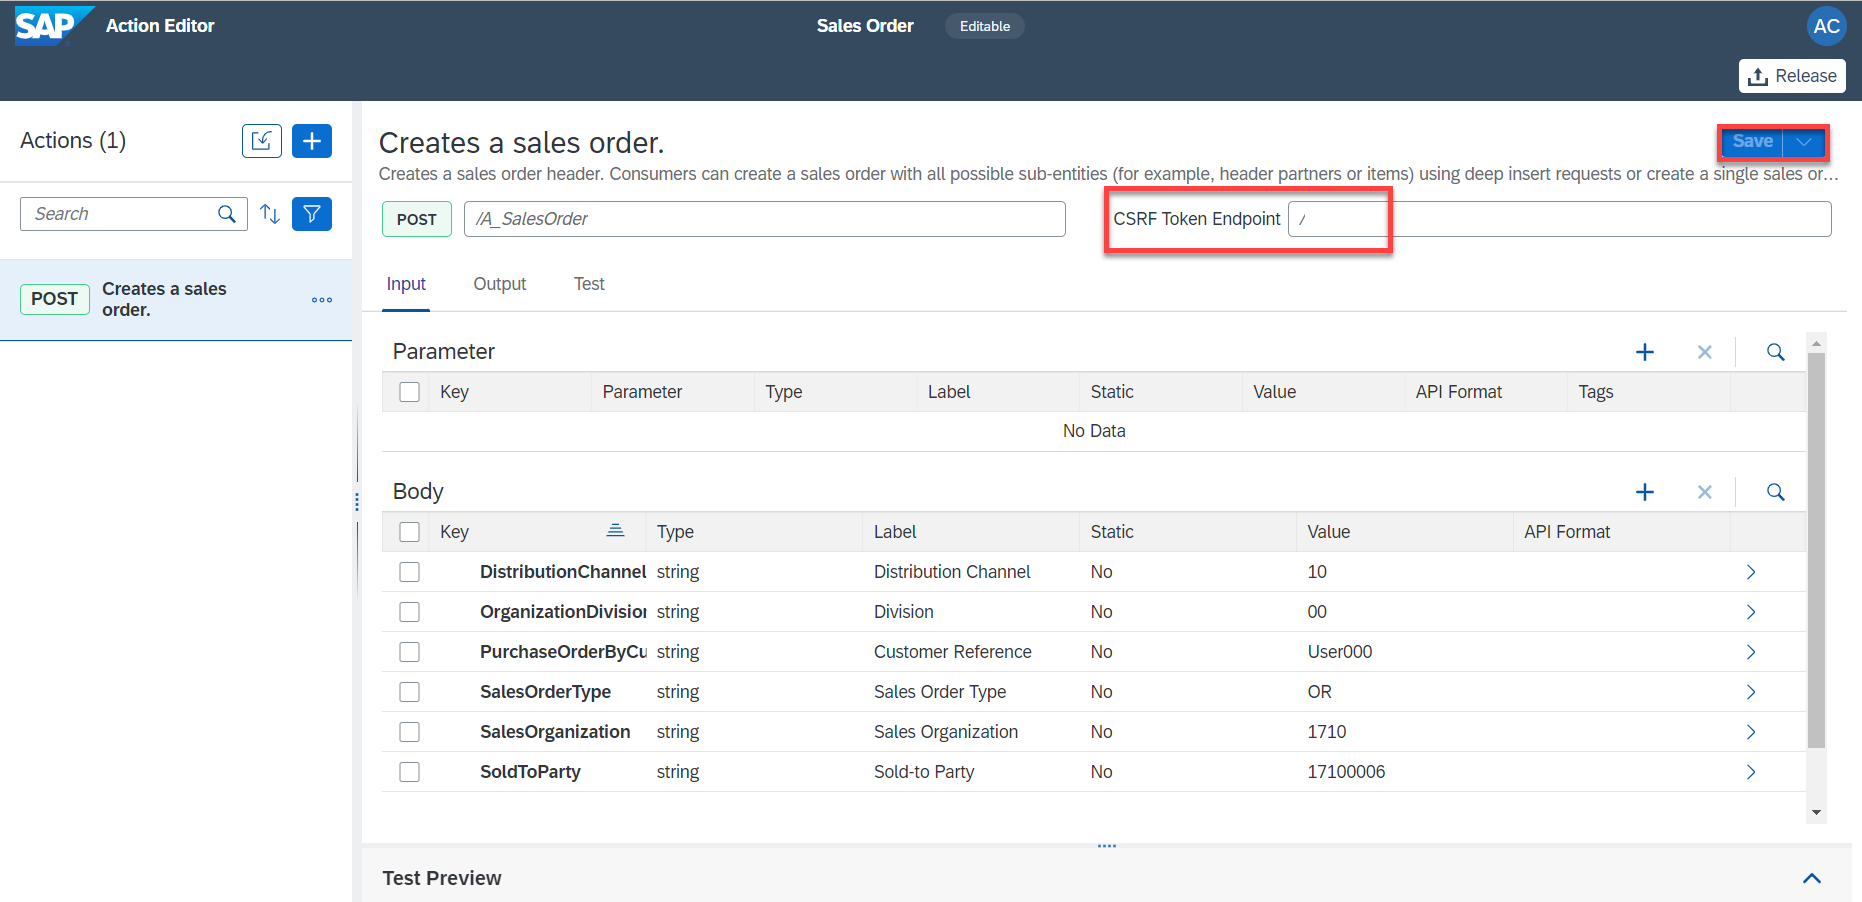
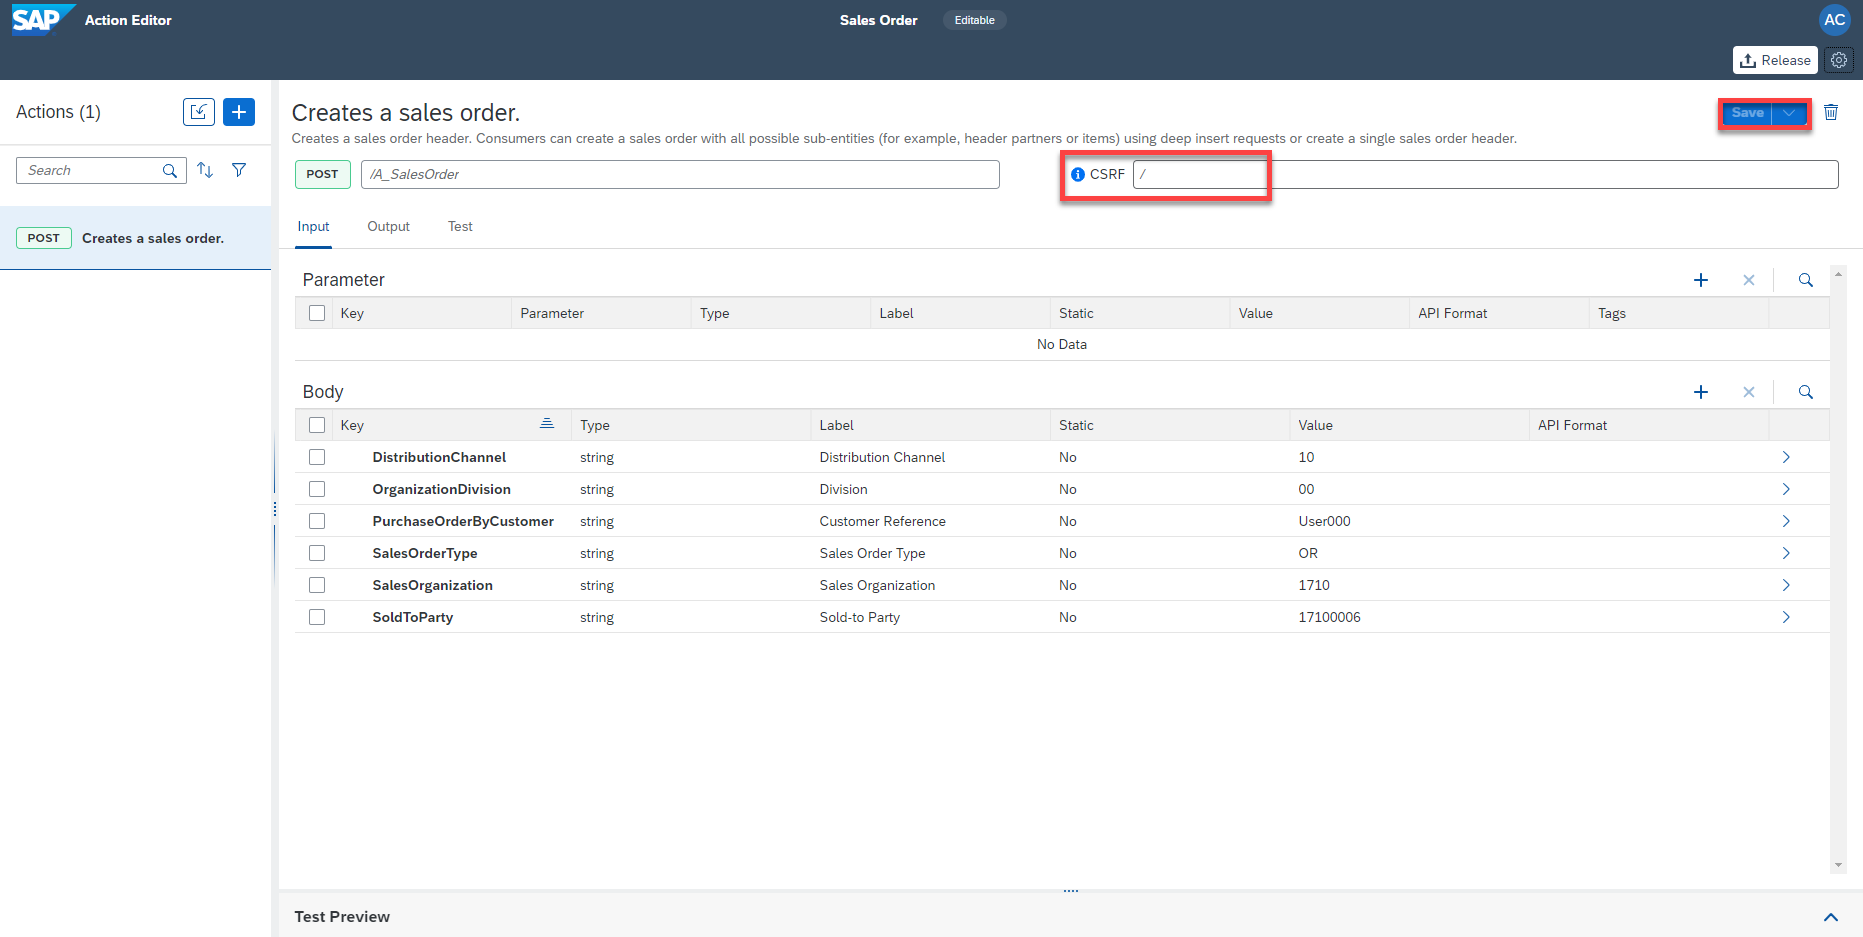
UI changes

diff --git a/tutorials/spa-process-action-create/spa-process-action-create.md b/tutorials/spa-process-action-create/spa-process-action-create.md
@@ -150,11 +150,13 @@ The same scenario can be used for posting an invoice to the S/4HANA system after
 
     > If you see that changes are not saved, then try saving again and refreshing the browser.
 
-4. As S/4HANA APIs need CSRF token, click **...** of the POST API on the left panel and select **Enable X-CSRF**.
+4. As S/4HANA APIs need CSRF token, select **Settings** icon.
 
-    <!-- border -->![Action Project](ActionProject_14.png)
+5. In the **Project Settings** window, select **CSRF** and do the following:
 
-    - In the popup, enter **/** and click **Enable**.
+    - Enable CSRF by selecting **YES**
+    - Under the **Token Fetch End Point**, enter **/**
+    - Choose **Save**
 
     > Action project uses Destination service to execute the API. In the destination you have already created the URL Path as `https://my-api.s4hana.cloud.sap/sap/opu/odata/sap/API_SALES_ORDER_SRV` to call the API. So, while configuring CSRF token path you do not have to enter any explicit path rather use standard URL configured in the destination.
 
